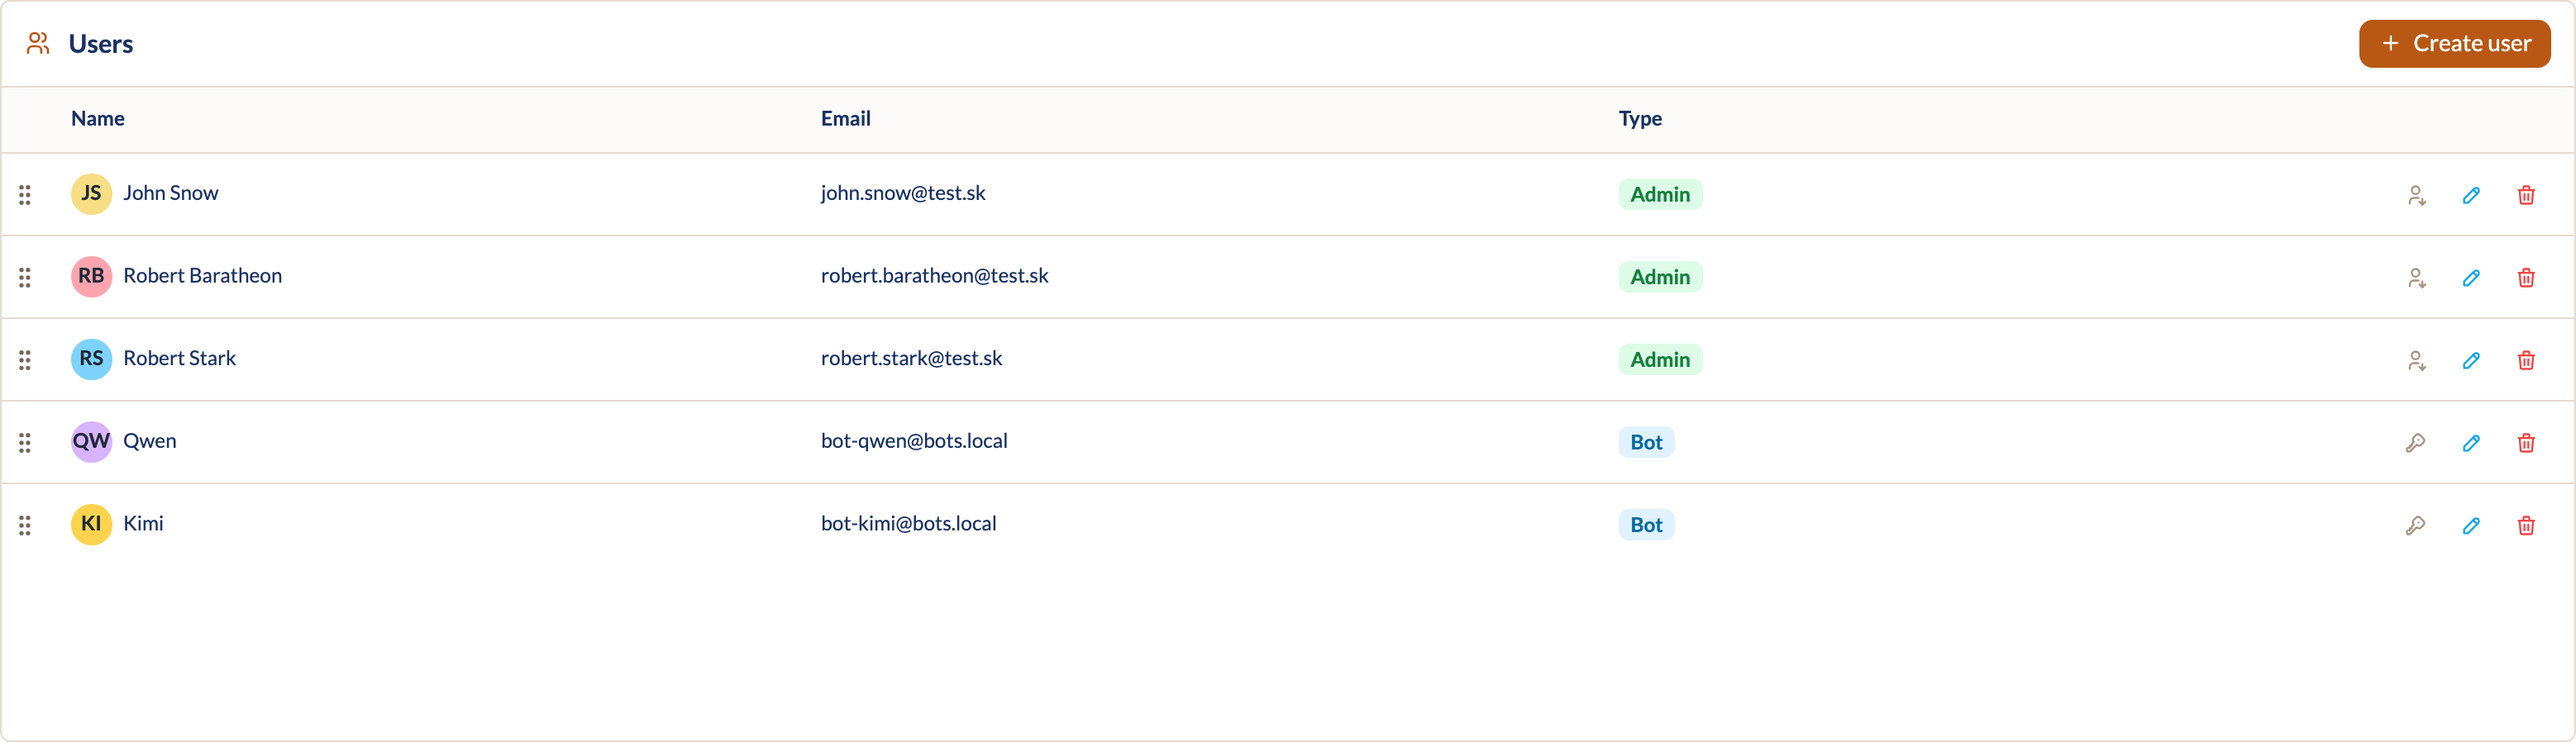
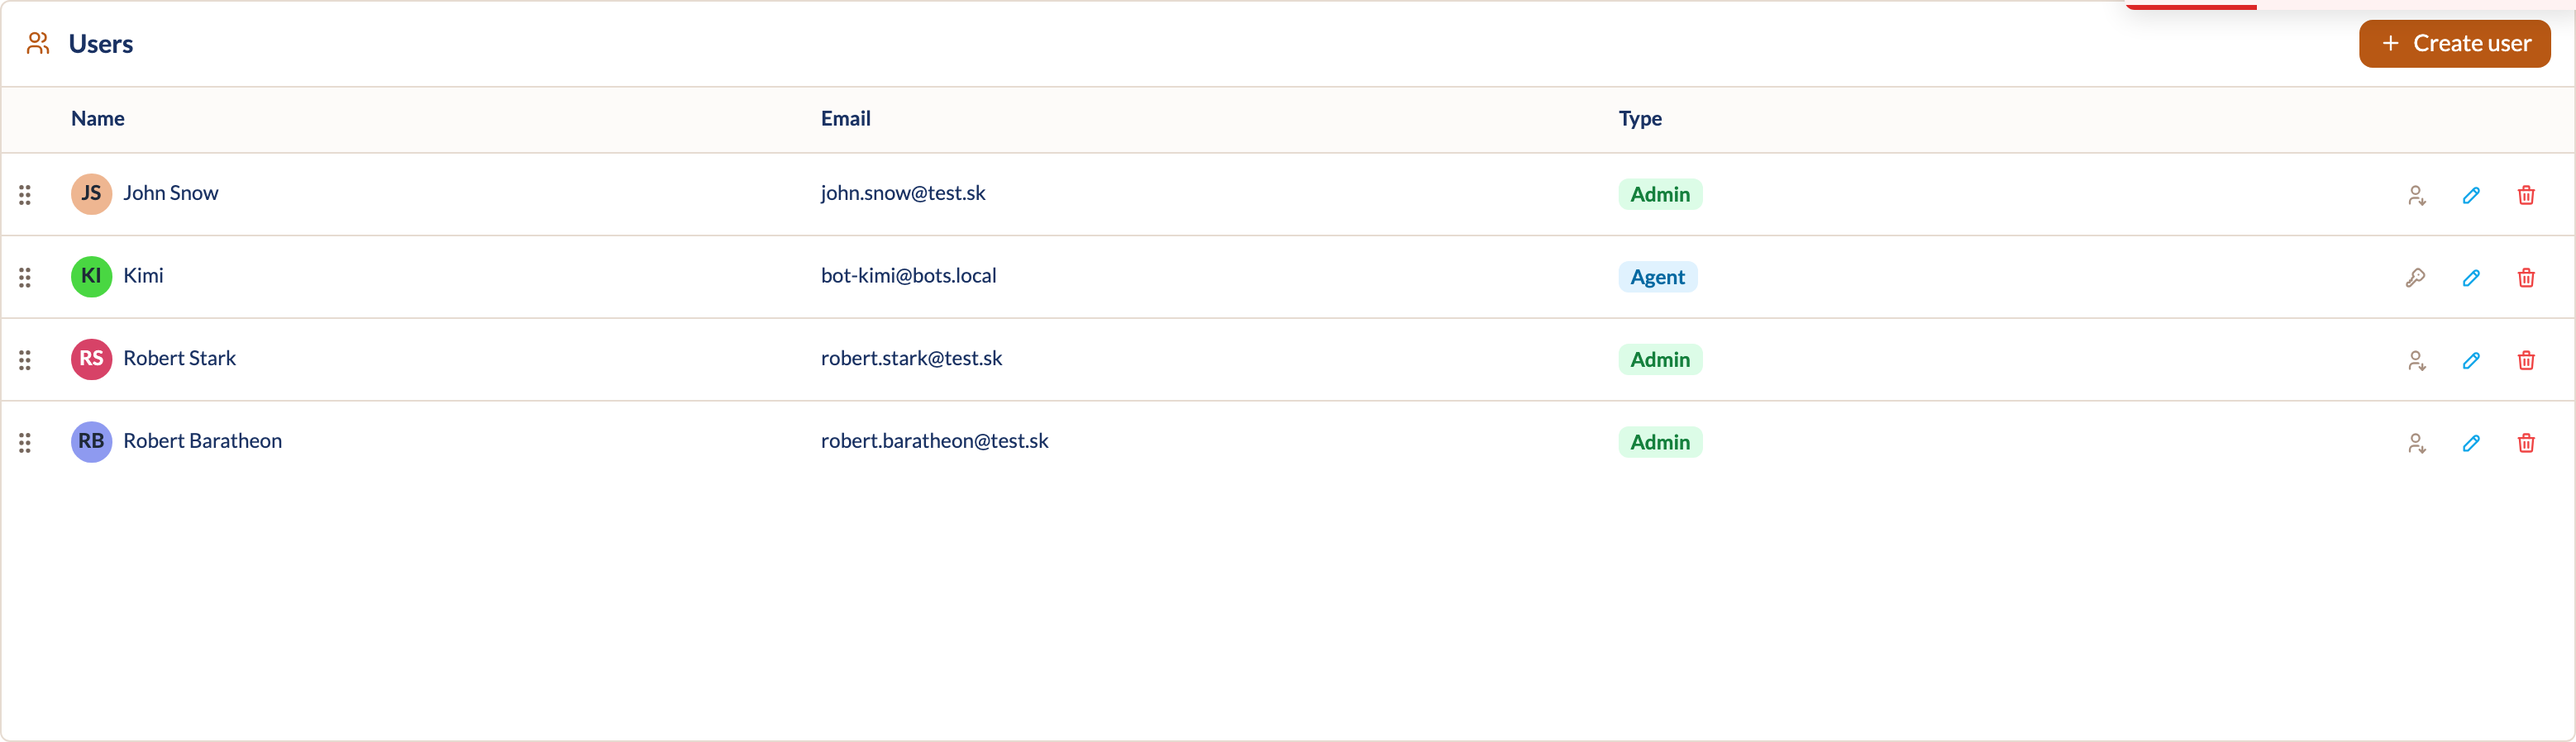
reshoot images for site

diff --git a/site/content/agentic-workflow/agents.md b/site/content/agentic-workflow/agents.md
@@ -14,13 +14,13 @@ approving stages.
 
 ## Concepts
 
-| Term                        | Meaning                                                                                                                       |
-| --------------------------- | ----------------------------------------------------------------------------------------------------------------------------- |
-| **Agent user**              | A non-human user account the agent acts as. Its writes are attributed to the agent (provenance).                              |
-| **Gateway → Tracker token** | The agent's API token; the gateway sends it as `GATEWAY_TO_TRACKER_TOKEN` on every tracker call.                              |
+| Term                        | Meaning                                                                                                                         |
+| --------------------------- | ------------------------------------------------------------------------------------------------------------------------------- |
+| **Agent user**              | A non-human user account the agent acts as. Its writes are attributed to the agent (provenance).                                |
+| **Gateway → Tracker token** | The agent's API token; the gateway sends it as `GATEWAY_TO_TRACKER_TOKEN` on every tracker call.                                |
 | **Agent gateway**           | The agent's single gateway record (the Goose gateway's URL). Holds the Tracker → Gateway token the tracker signs webhooks with. |
-| **Agent run**               | One execution against one task: moves through stages, ends in a PR (or failure).                                              |
-| **Stage**                   | A phase of work: brainstorm → design → plan → implement. Some are skippable.                                                  |
+| **Agent run**               | One execution against one task: moves through stages, ends in a PR (or failure).                                                |
+| **Stage**                   | A phase of work: brainstorm → design → plan → implement. Some are skippable.                                                    |
 
 ## 1. Create an agent user
 
@@ -30,7 +30,7 @@ name, and enter its **Gateway URL** — the Goose gateway's base URL, e.g.
 and can work on any project it is a member of.
 More detail in [User management](./user-management.md#agents).
 
-![Creating an agent](../../site/assets/img/bot-create.png)
+![Creating an agent](../../site/assets/img/agent-create.png)
 
 ## 2. Copy the agent's credentials
 
@@ -52,7 +52,7 @@ expose only over HTTPS (or `localhost`); on a plain-HTTP deployment it falls bac
 to a legacy copy path, and if the browser blocks that too the dialog says so —
 select the token in the row and copy it manually.
 
-![Agent credentials dialog — the one-time Gateway → Tracker and Tracker → Gateway tokens](../../site/assets/img/bot-keys.png)
+![Agent credentials dialog — the one-time Gateway → Tracker and Tracker → Gateway tokens](../../site/assets/img/agent-keys.png)
 
 > The tracker signs each `stage_execute` webhook with the Tracker → Gateway
 > token; the gateway verifies the `X-Tracker-Signature` and rejects mismatches

diff --git a/site/content/using-the-tracker/user-management.md b/site/content/using-the-tracker/user-management.md
@@ -7,10 +7,10 @@ description: Accounts, the global admin role, agents, agent credentials, teams, 
 
 Two permission layers exist side by side:
 
-| Layer | Scope | Values |
-| --- | --- | --- |
-| **Global admin** | Whole instance | `admin` flag on a user |
-| **Project role** | One project | `viewer` · `member` · `owner` |
+| Layer            | Scope          | Values                        |
+| ---------------- | -------------- | ----------------------------- |
+| **Global admin** | Whole instance | `admin` flag on a user        |
+| **Project role** | One project    | `viewer` · `member` · `owner` |
 
 ## Accounts & first run
 
@@ -94,7 +94,7 @@ Rotation:
   the gateway's `TRACKER_TO_GATEWAY_TOKEN` and restart it right after —
   webhook calls fail signature verification in between.
 
-![Agent credentials dialog](../../site/assets/img/bot-keys.png)
+![Agent credentials dialog](../../site/assets/img/agent-keys.png)
 
 ## Teams
 
@@ -121,14 +121,14 @@ role is the **highest** of their direct assignment and any team they belong to.
 Owners manage a project's membership — they do **not** create or edit the teams
 themselves; that stays in the [admin Teams panel](#teams).
 
-| Capability | viewer | member | owner |
-| --- | :-: | :-: | :-: |
-| See the project, tasks, views | ✔ | ✔ | ✔ |
-| Create / edit tasks, log time, relations | | ✔ | ✔ |
-| Read git integrations, MR diffs | | ✔ | ✔ |
-| Manage project members & team access | | | ✔ |
-| Manage git integrations | | | ✔ |
-| Manage agent gateways & agent settings | | | ✔ |
+| Capability                               | viewer | member | owner |
+| ---------------------------------------- | :----: | :----: | :---: |
+| See the project, tasks, views            |   ✔    |   ✔    |   ✔   |
+| Create / edit tasks, log time, relations |        |   ✔    |   ✔   |
+| Read git integrations, MR diffs          |        |   ✔    |   ✔   |
+| Manage project members & team access     |        |        |   ✔   |
+| Manage git integrations                  |        |        |   ✔   |
+| Manage agent gateways & agent settings   |        |        |   ✔   |
 
 > **Time entries.** A time entry can be edited or removed only by its author, or
 > by a project **owner** (who may correct or clean up any member's entries). A
